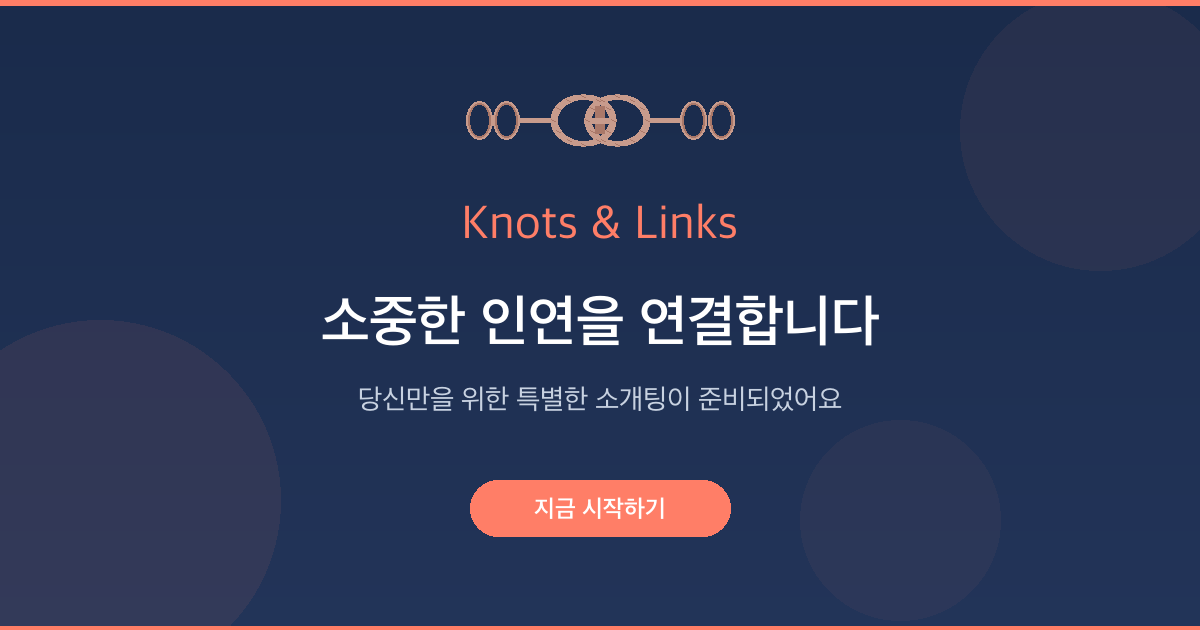
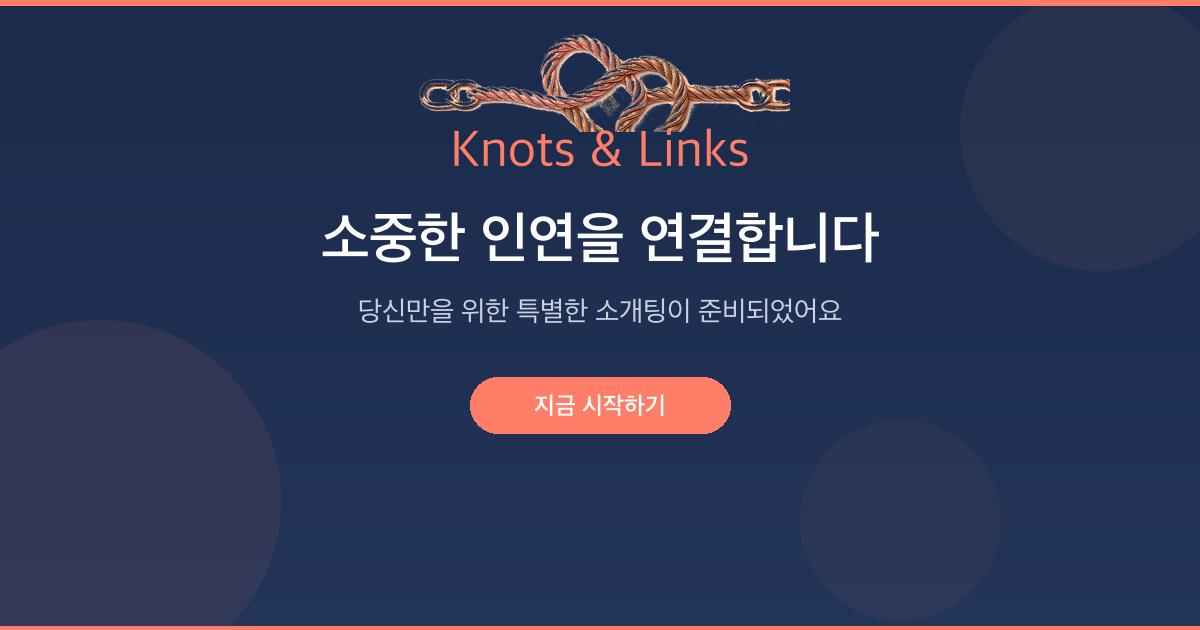
fix: OG 이미지 매듭 아이콘 참조 이미지에서 추출하여 적용
- 하트 아이콘 → 로고 이미지에서 밧줄 매듭+체인 크롭하여 합성
- findmyone → Knots & Links 텍스트 변경
- 배경 제거 및 밝기 보정으로 네이비 배경 위 가시성 확보

diff --git a/scripts/generate-og-image.py b/scripts/generate-og-image.py
@@ -1,166 +1,125 @@
 #!/usr/bin/env python3
-"""Generate OG image for Knots & Links invite links (1200x630)"""
+"""Generate OG image for Knots & Links invite links (1200x630)
+   Uses the knot icon cropped from the reference logo image."""
 
-from PIL import Image, ImageDraw, ImageFont
-import math
+from PIL import Image, ImageDraw, ImageFont, ImageEnhance
 import os
 
 W, H = 1200, 630
-OUT = os.path.join(os.path.dirname(__file__), '..', 'public', 'og-image.png')
+SCRIPT_DIR = os.path.dirname(__file__)
+OUT = os.path.join(SCRIPT_DIR, '..', 'public', 'og-image.png')
+LOGO_SRC = os.path.expanduser('~/Downloads/Gemini_Generated_Image_7a9cny7a9cny7a9c.png')
 
-# Colors (from design system)
-NAVY = (26, 43, 75)        # --navy #1A2B4B
-NAVY_LIGHT = (44, 62, 103) # lighter navy
-CORAL = (255, 126, 103)    # --coral #FF7E67
-ROSE_GOLD = (200, 155, 140)  # rope/knot color
-ROSE_DARK = (170, 120, 105)  # darker rope for depth
+# Colors
+NAVY = (26, 43, 75)
+NAVY_LIGHT = (44, 62, 103)
+CORAL = (255, 126, 103)
 WHITE = (255, 255, 255)
 
 img = Image.new('RGB', (W, H), NAVY)
 draw = ImageDraw.Draw(img)
 
-# Background gradient effect
+# Background gradient
 for y in range(H):
     r = int(NAVY[0] + (NAVY_LIGHT[0] - NAVY[0]) * (y / H) * 0.5)
     g = int(NAVY[1] + (NAVY_LIGHT[1] - NAVY[1]) * (y / H) * 0.5)
     b = int(NAVY[2] + (NAVY_LIGHT[2] - NAVY[2]) * (y / H) * 0.5)
     draw.line([(0, y), (W, y)], fill=(r, g, b))
 
-# Decorative coral accent bar at top
+# Top accent bar
 draw.rectangle([(0, 0), (W, 5)], fill=CORAL)
 
-# Decorative circles (subtle)
+# Decorative circles
 for cx, cy, rad, alpha in [(100, 500, 180, 20), (1100, 130, 140, 15), (900, 520, 100, 12)]:
     overlay = Image.new('RGBA', (W, H), (0, 0, 0, 0))
     od = ImageDraw.Draw(overlay)
-    od.ellipse(
-        [(cx - rad, cy - rad), (cx + rad, cy + rad)],
-        fill=(CORAL[0], CORAL[1], CORAL[2], alpha)
-    )
+    od.ellipse([(cx - rad, cy - rad), (cx + rad, cy + rad)],
+               fill=(CORAL[0], CORAL[1], CORAL[2], alpha))
     img = Image.alpha_composite(img.convert('RGBA'), overlay).convert('RGB')
     draw = ImageDraw.Draw(img)
 
+# ── Extract knot from reference image ──
+logo_img = Image.open(LOGO_SRC).convert('RGBA')
+# Knot only (without "Knots" text below): y=483 to y=750
+# Tighter horizontal crop to avoid edge shadows
+knot_crop = logo_img.crop((500, 470, 1500, 740))
+kw, kh = knot_crop.size
 
-def draw_thick_line(draw, start, end, width, color):
-    """Draw a thick line between two points."""
-    draw.line([start, end], fill=color, width=width)
+# Remove light/cream background - make it transparent
+# Background is cream-colored (~RGB 230,225,215), knot is rose-gold (high R, low B)
+knot_data = knot_crop.load()
+for py in range(kh):
+    for px in range(kw):
+        r, g, b, a = knot_data[px, py]
+        brightness = (r + g + b) / 3
+        # Check if pixel is close to cream/white background
+        # Background pixels: high brightness AND low color saturation
+        max_c = max(r, g, b)
+        min_c = min(r, g, b)
+        saturation = (max_c - min_c) / max(max_c, 1)
 
+        if brightness > 200:
+            knot_data[px, py] = (r, g, b, 0)
+        elif brightness > 175 and saturation < 0.15:
+            # Gray-ish background shadow → fade out
+            fade = (brightness - 175) / 25
+            new_alpha = int((1 - fade) * 200)
+            knot_data[px, py] = (r, g, b, max(0, min(new_alpha, a)))
+        elif brightness > 155 and saturation < 0.12:
+            # Very low saturation = gray background artifact
+            fade = (brightness - 155) / 20
+            knot_data[px, py] = (r, g, b, int(a * max(0, 1 - fade)))
+        else:
+            # Actual knot pixel - brighten for contrast on dark bg
+            boost = 1.3
+            nr = min(255, int(r * boost))
+            ng = min(255, int(g * boost * 0.9))
+            nb = min(255, int(b * boost * 0.85))
+            knot_data[px, py] = (nr, ng, nb, a)
 
-def draw_chain_link(draw, cx, cy, w, h, thickness, color, dark_color):
-    """Draw a single chain link (oval ring)."""
-    # Outer oval
-    draw.ellipse([(cx - w, cy - h), (cx + w, cy + h)], outline=color, width=thickness)
-    # Inner highlight
-    draw.ellipse([(cx - w + 2, cy - h + 2), (cx + w - 2, cy + h - 2)], outline=dark_color, width=max(1, thickness - 2))
+# Resize knot to target width ~380px for good visibility
+knot_target_w = 380
+knot_ratio = knot_target_w / kw
+knot_target_h = int(kh * knot_ratio)
+knot_resized = knot_crop.resize((knot_target_w, knot_target_h), Image.LANCZOS)
 
+# Paste knot centered
+knot_x = (W - knot_target_w) // 2
+knot_y = 30
+img_rgba = img.convert('RGBA')
+img_rgba.paste(knot_resized, (knot_x, knot_y), knot_resized)
+img = img_rgba.convert('RGB')
+draw = ImageDraw.Draw(img)
 
-def draw_knot_symbol(draw, cx, cy, scale=1.0):
-    """Draw a rope knot with chain links - inspired by the Knots & Links logo."""
-    s = scale
-
-    # --- Chain links on left side ---
-    draw_chain_link(draw, int(cx - 110 * s), int(cy), int(12 * s), int(18 * s), int(4 * s), ROSE_GOLD, ROSE_DARK)
-    draw_chain_link(draw, int(cx - 85 * s), int(cy), int(12 * s), int(18 * s), int(4 * s), ROSE_GOLD, ROSE_DARK)
-
-    # --- Chain links on right side ---
-    draw_chain_link(draw, int(cx + 85 * s), int(cy), int(12 * s), int(18 * s), int(4 * s), ROSE_GOLD, ROSE_DARK)
-    draw_chain_link(draw, int(cx + 110 * s), int(cy), int(12 * s), int(18 * s), int(4 * s), ROSE_GOLD, ROSE_DARK)
-
-    # --- Horizontal rope lines connecting to knot ---
-    rope_w = int(5 * s)
-    # Left rope
-    draw_thick_line(draw, (int(cx - 73 * s), int(cy)), (int(cx - 40 * s), int(cy)), rope_w, ROSE_GOLD)
-    # Right rope
-    draw_thick_line(draw, (int(cx + 40 * s), int(cy)), (int(cx + 73 * s), int(cy)), rope_w, ROSE_GOLD)
-
-    # --- Central knot (pretzel/figure-eight knot) ---
-    # Draw two interlinked loops to form the knot
-    loop_r = int(28 * s)
-    offset = int(16 * s)
-
-    # Left loop (slightly left and up)
-    for t in range(360):
-        angle = math.radians(t)
-        x = cx - offset + int(loop_r * math.cos(angle))
-        y = cy + int(loop_r * 0.8 * math.sin(angle))
-        for dx in range(-int(3 * s), int(3 * s) + 1):
-            for dy in range(-int(2 * s), int(2 * s) + 1):
-                if dx * dx + dy * dy <= (3 * s) ** 2:
-                    px, py = x + dx, y + dy
-                    if 0 <= px < W and 0 <= py < H:
-                        img.putpixel((px, py), ROSE_GOLD)
-
-    # Right loop (slightly right and up)
-    for t in range(360):
-        angle = math.radians(t)
-        x = cx + offset + int(loop_r * math.cos(angle))
-        y = cy + int(loop_r * 0.8 * math.sin(angle))
-        for dx in range(-int(3 * s), int(3 * s) + 1):
-            for dy in range(-int(2 * s), int(2 * s) + 1):
-                if dx * dx + dy * dy <= (3 * s) ** 2:
-                    px, py = x + dx, y + dy
-                    if 0 <= px < W and 0 <= py < H:
-                        img.putpixel((px, py), ROSE_GOLD)
-
-    # Crossing effect: draw a darker band at the crossing point
-    cross_x = cx
-    cross_y = cy
-    # Vertical dark stripe to simulate "over-under" crossing
-    draw.rectangle([
-        (int(cross_x - 4 * s), int(cross_y - 12 * s)),
-        (int(cross_x + 4 * s), int(cross_y + 12 * s))
-    ], fill=ROSE_DARK)
-    # Redraw the horizontal rope segment over the crossing for "over" effect
-    draw_thick_line(draw,
-        (int(cross_x - 14 * s), int(cross_y)),
-        (int(cross_x + 14 * s), int(cross_y)),
-        int(6 * s), ROSE_GOLD)
-
-    # Rope texture lines (subtle horizontal stripes on the loops)
-    draw = ImageDraw.Draw(img)
-    for angle_deg in range(0, 360, 30):
-        angle = math.radians(angle_deg)
-        for loop_cx in [cx - offset, cx + offset]:
-            x = loop_cx + int(loop_r * math.cos(angle))
-            y = cy + int(loop_r * 0.8 * math.sin(angle))
-            # Small tick marks for rope texture
-            draw.line([(x - 2, y - 1), (x + 2, y + 1)], fill=ROSE_DARK, width=1)
-
-
-# Draw the knot symbol
-draw_knot_symbol(draw, W // 2, 120, scale=1.1)
-
-# Load fonts
+# ── Fonts ──
 FONT_PATH = '/System/Library/Fonts/AppleSDGothicNeo.ttc'
 try:
-    font_logo = ImageFont.truetype(FONT_PATH, 48, index=0)
-    font_title = ImageFont.truetype(FONT_PATH, 56, index=5)  # Bold
+    font_logo = ImageFont.truetype(FONT_PATH, 52, index=0)
+    font_title = ImageFont.truetype(FONT_PATH, 56, index=5)
     font_sub = ImageFont.truetype(FONT_PATH, 28, index=0)
 except Exception:
-    font_logo = ImageFont.truetype(FONT_PATH, 48)
+    font_logo = ImageFont.truetype(FONT_PATH, 52)
     font_title = ImageFont.truetype(FONT_PATH, 56)
     font_sub = ImageFont.truetype(FONT_PATH, 28)
 
-# Logo text
-draw.text((W // 2, 225), 'Knots & Links', font=font_logo, fill=CORAL, anchor='mm')
+# Logo text below knot
+logo_y = knot_y + knot_target_h + 20
+draw.text((W // 2, logo_y), 'Knots & Links', font=font_logo, fill=CORAL, anchor='mm')
 
 # Main title
-draw.text((W // 2, 320), '소중한 인연을 연결합니다', font=font_title, fill=WHITE, anchor='mm')
+draw.text((W // 2, logo_y + 85), '소중한 인연을 연결합니다', font=font_title, fill=WHITE, anchor='mm')
 
 # Subtitle
-draw.text((W // 2, 400), '당신만을 위한 특별한 소개팅이 준비되었어요', font=font_sub, fill=(200, 210, 225), anchor='mm')
+draw.text((W // 2, logo_y + 160), '당신만을 위한 특별한 소개팅이 준비되었어요', font=font_sub, fill=(200, 210, 225), anchor='mm')
 
-# Coral pill button shape at bottom
+# Pill button
 pill_text = '지금 시작하기'
 pill_w, pill_h = 260, 56
 pill_x = (W - pill_w) // 2
-pill_y = 480
+pill_y = logo_y + 225
 pill_r = pill_h // 2
-draw.rounded_rectangle(
-    [(pill_x, pill_y), (pill_x + pill_w, pill_y + pill_h)],
-    radius=pill_r,
-    fill=CORAL
-)
+draw.rounded_rectangle([(pill_x, pill_y), (pill_x + pill_w, pill_y + pill_h)],
+                       radius=pill_r, fill=CORAL)
 try:
     font_pill = ImageFont.truetype(FONT_PATH, 24, index=5)
 except Exception:
